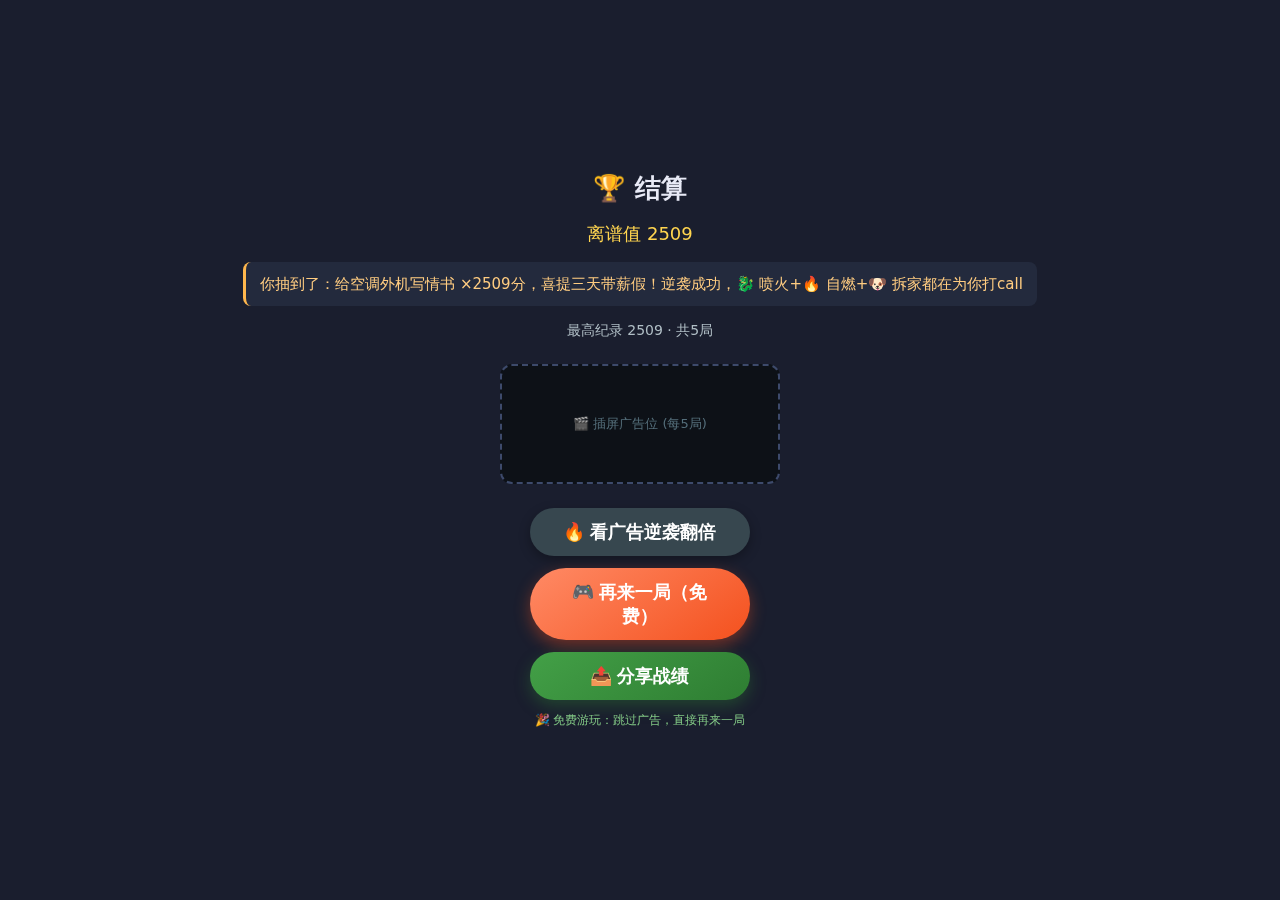
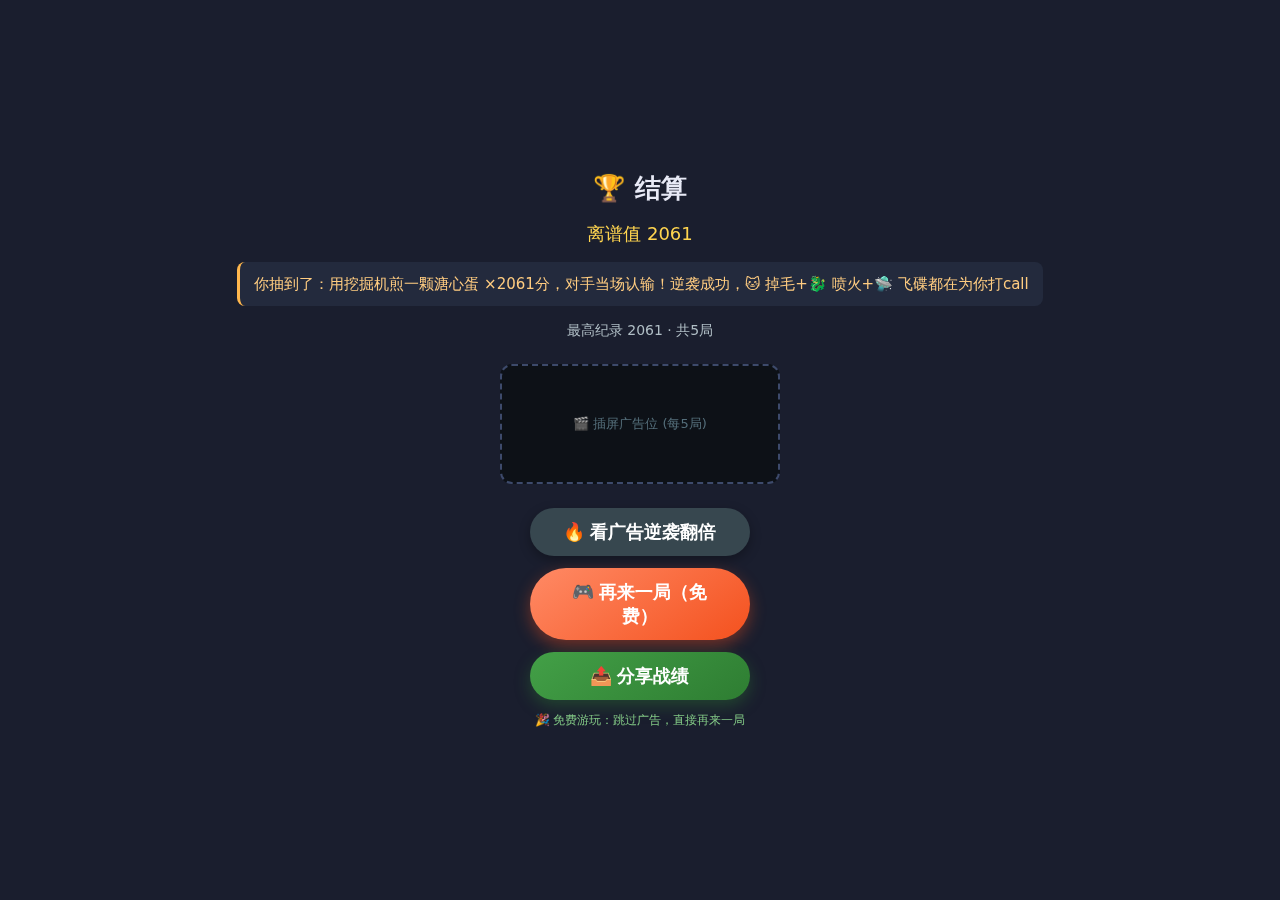
docs: v0.7a 复盘汇总 + v0.7c backlog

Changed region(s): [[0.1875, 0.3111, 0.8125, 0.3422], [0.5, 0.2489, 0.5312, 0.28]]

diff --git a/docs/evidence/v0.7a/report.md b/docs/evidence/v0.7a/report.md
@@ -1,0 +1,76 @@
+# v0.7a 汇总报告 — 真实 LLM 端到端验证（三阶段完成，收尾交付）
+
+| 项目 | 内容 |
+|---|---|
+| 版本 | AgentGraph v0.7a（v0.7.0-alpha） |
+| 日期 | 2026-08-02 |
+| 范围 | 阶段1 小任务（落地页）+ 阶段2 中任务（创意方案→游戏原型）+ 阶段3 复盘（本报告） |
+| LLM | DeepSeek `deepseek-chat`（真实 API，.env.local gitignored 经 lib.sh 自动加载） |
+| 状态 | **全部完成**：两阶段真实交付 + 修复闭环 + 盲审复验通过 + 最终回归 18/18 + backlog 落盘 + 已推送 GitHub |
+
+---
+
+## 一、两阶段执行统计
+
+| 指标 | 阶段1（小任务·落地页） | 阶段2（中任务·创意方案+游戏原型） | 合计 |
+|---|---|---|---|
+| LLM 调用次数 | 7（6 图节点 + 1 次修复轮调用） | 21（阶段① 9 + 阶段② 12） | **28** |
+| 图 | feature-dev（7 节点） | research-report（6 节点）+ game-mvp（8 节点）双图 | 3 图 |
+| 交付物 | 落地页 index.html（16.5KB） | 创意方案定稿+详细稿 + 游戏 index.html（约 14.9KB） | 3 件 |
+| Gate | 4/5（修复后；留存行为套件游戏向误报） | 阶段① 5/5；阶段② 4/5（留存误报/低优先项） | — |
+| 独立审查 | UX 盲审通过（8 条打磨建议） | 盲审有条件通过 → 修复轮 1 → 复验通过 | — |
+| 修复轮数 | 1 轮（按 brief 规则即止） | 系统修复 1 轮 + 修复轮 1 盲审修复 | ≤5 轮目标内 |
+| E2E 实跑 | Playwright 交互 4/4 | 18/18 → 修复轮重写后 34/34 | — |
+| 花费估算 | ≈ $0.031（约 ¥0.22） | ≈ $0.11（约 ¥0.81） | **≈ $0.14（约 ¥1.03）** |
+
+注：token 用量（阶段1 ≈43.7k 输入/17.4k 输出；阶段2 ≈129.9k 输入/70.0k 输出）按字节估算（agent-runner 不回显 usage，缺陷 D16），实际以 DeepSeek 控制台为准。
+
+## 二、成功标准逐条核对（spec §2 七条）
+
+| # | 标准 | 判定 | 结论 |
+|---|---|---|---|
+| 1 | 小任务（落地页）交付，无阻断性缺陷 | Gate 4/5 + UX 盲审通过 + 复评通过（0 阻断项，8 条打磨建议） | ✅ 达成 |
+| 2 | 中任务分类正确（置信度 ≥0.8）、计划被批准 | 分类器关键词全 0 分 → **分类失败**，走低置信度兜底：人工选向（创意方案→小游戏），计划经用户批准 | ⚠ 未达标（如实记录），但流程兜底有效，未阻塞 |
+| 3 | 中任务交付物过全部 Gate + 独立审查 | Gate 4/5 + 盲审「有条件通过」→ 修复轮 1（B-1/B-2/C-1 全修）→ 独立复验（review-blind-fix1.md 28/28 + E2E 34/34）通过 | ✅ 达成（有条件通过→修复后达标） |
+| 4 | 修复回路闭环（自动修自动验） | 阶段① 图内「修改后重审」边 2 轮闭环；阶段② 图内 fix 节点 3 轮 + `guild fix` 策略 1 轮 + 修复轮 1 盲审修复，全程验证齐全 | ✅ 达成（修复轮 1 完整闭环） |
+| 5 | 每步有证据报告（日志/Gate/审查） | `docs/evidence/v0.7a/stage1/`（run/gate×2/self-test/review-ux/report 共 8 文件）+ `stage2/`（run×2/gate×4/e2e 脚本+日志/review-blind×2/截图×2/report 共 13 文件）+ 本汇总 | ✅ 达成 |
+| 6 | 缺陷清单进 backlog | `docs/superpowers/specs/backlog-v0.7c.md`（本任务产出，22 项） | ✅ 达成 |
+| 7 | 成本可控（中任务修复循环最多 5 轮） | 合计 ≈ $0.14；系统修复轮 1 轮（+修复轮 1 盲审 1 轮），远低于 5 轮上限 | ✅ 达成 |
+
+## 三、缺陷总数与分布（→ v0.7c backlog）
+
+**总数 22 项**：D1-D17 编号缺陷 17 项（D5 并入 D14 不单列；D7 在阶段2 报告 §十 记录但未单列入 backlog；D8 并入「UX 审查 8 条」条目）+ 审查/教训发现 7 项（E2E 断言教训、分类器关键词、竞品对照未补、M9、表述过度、M2、报告遗留）。
+
+| 类别 | 项数 | 覆盖 |
+|---|---|---|
+| 运行时缺陷 | 12 | D1、D2、D3、D9、D10、D12、D13、D14（含 D5）、D16、D17、E2E 限频断言恒真教训（I-1）、分类器关键词覆盖弱 |
+| 模板缺口 | 4 | D4、D6（含 canvas 检查误报）、D11、D15 |
+| 质量差距 | 6 | UX 审查 8 条（含 D8）、品类竞品对照未补、M9 卡牌高亮、表述过度、M2 gameState 死变量、报告遗留 |
+| **合计** | **22** | 详见 `docs/superpowers/specs/backlog-v0.7c.md` |
+
+按级别：阻断/高优先级 1 项（D2 自动接力，头号候选）；中 8 项（D1/D3/D9/D10/D12/D13/D17/分类器）；低 13 项。已修复并在轮内验证的缺陷（B-1/B-2/C-1/I-1/M1/M3-M8）按约定在修复记录中闭环，不重复计入 backlog。
+
+## 四、结论
+
+**v0.7a 达成「真实 LLM 端到端可交付」验证**：28 次真实 DeepSeek 调用、3 张图、2 件完整交付物，全链路执行无一节点失败；交付质量达到「有条件通过 → 修复后达标」——小任务零阻断（UX 盲审通过），中任务经盲审发现 2 阻断（B-1 流程死路、B-2 概念核心未实现）后 1 轮修复闭环并独立复验通过，证明「自动产出 + 自动审查 + 修复回路」的真实链路成立。
+
+**最大系统缺口是 D2（自动接力）**：全自动多 Agent 流转未闭环，两阶段 23 次下游节点执行全部依赖编排者手工创建 handoff 并逐节点 `run-agent`，是 v0.7c 的头号修复候选；其次为 D1（4096 token 截断无系统兜底，两阶段共 5 次发生）与 D12/D13（fix 节点无文件访问与补丁应用管线）。分类器（成功标准 2）为唯一未达标项——如实记录为「未达标但流程兜底有效」。
+
+**花费 ≈ $0.14（约 ¥1.03）**，成本可控，远低于预算上限。
+
+## 五、交付物清单
+
+| 交付物 | 路径 |
+|---|---|
+| 落地页（阶段1） | `docs/evidence/v0.7a/stage1/deliverable/index.html` |
+| 创意方案定稿+详细稿（阶段2①） | `docs/evidence/v0.7a/stage2/deliverable/创意方案-定稿.md`、`创意方案-v0.3详细稿.md` |
+| 游戏原型（阶段2②） | `docs/evidence/v0.7a/stage2/deliverable/game/index.html` |
+| 阶段1 证据报告 | `docs/evidence/v0.7a/stage1/report.md`（含 run/gate/self-test 日志、review-ux.md、截图） |
+| 阶段2 证据报告 | `docs/evidence/v0.7a/stage2/report.md`（含双图日志、gate×4、e2e 脚本+日志、review-blind.md、review-blind-fix1.md、截图） |
+| 最终回归自检 | `docs/evidence/v0.7a/final-self-test.log`（**18/18 通过**） |
+| v0.7c 缺陷清单 | `docs/superpowers/specs/backlog-v0.7c.md`（22 项，三类） |
+| 本汇总报告 | `docs/evidence/v0.7a/report.md` |
+
+## 六、待用户验收事项
+
+两件交付物（落地页、游戏原型）请用户亲自验收「用户不用改」是否达成；验收意见与后续 v0.7c 优先级（建议按 D2 → D1 → D12/D13 顺序）将作为下一版本输入。

diff --git a/docs/superpowers/specs/backlog-v0.7c.md b/docs/superpowers/specs/backlog-v0.7c.md
@@ -1,0 +1,39 @@
+# v0.7c Backlog — v0.7a 真实 LLM 端到端验证复盘缺陷清单
+
+**日期**: 2026-08-02
+**来源**: v0.7a 阶段1（小任务·落地页）与阶段2（中任务·创意方案+游戏原型）真实执行暴露的全部缺陷/改进点
+**用途**: v0.7c（系统鲁棒性）输入
+**证据索引**: `docs/evidence/v0.7a/stage1/report.md`、`docs/evidence/v0.7a/stage2/report.md`、`docs/evidence/v0.7a/stage1/review-ux.md`、`docs/evidence/v0.7a/stage2/review-blind.md`
+
+---
+
+## 一、运行时缺陷（Runtime）— 链路断点与自动化缺口
+
+- [ ] D2: `guild run --graph` 只自动执行初始节点，下游节点需手动 `run-agent` + 手工创建 handoff 接力，全自动多 Agent 流转未闭环（阶段2，证据: stage2/report.md §五/§十）— **头号候选**
+- [ ] D1: LLM 输出在 4096 token 处被截断（无闭合标签/JS 断裂/文档腰斩），无系统级兜底（拆段生成/续写自动重试/输出长度监控），两阶段累计 5 次截断（阶段1+2，证据: stage1/report.md §六、stage2/report.md §十）
+- [ ] D3: QA 节点基于截断/注入的上游文本评审，无「读真实文件」能力，产生不实结论（阶段1：第4款隐藏/156字超限/#000000 标题 3 条均不实；阶段2：B-3 自我更正、N-1 与 E2E 不符、复测缺陷 ID 描述漂移）（阶段1+2，证据: stage1/report.md §四/§六、stage2/report.md §十）
+- [ ] D9: `guild run-agent --upstream <id>` 标志未被解析（`run_agent()` 只取位置参数 `$3`），`--upstream` 被当作 upstream 值，注入静默退化为 `(upstream content unavailable)`；仅按位置传参才能注入（阶段2，证据: stage2/report.md §十、scripts/runtime/agent-runner.sh）
+- [ ] D10: 链式 handoff 单输入缺陷：finalize 节点仅注入 review 结论、未注入 write 详细稿 → 定稿为浓缩重写版（6.6KB vs 10.7KB 细节丢失），仅靠编排者以 annex 补救（阶段2，证据: stage2/report.md §十）
+- [ ] D12: fix 节点无文件访问能力：补丁引用不存在的变量名（gameOver/currentAbsurd/renderResult/drawCards(3)），与实际代码 API 不匹配，无法直接应用（阶段2，证据: stage2/report.md §十、fix 输出 221940.md）
+- [ ] D13: 无补丁应用机制：fix 节点输出「修复方案文档」而非机器可应用变更，系统无 diff/apply/merge 管线，每轮修复依赖编排者手工落地组装（阶段2，证据: stage2/report.md §十）
+- [ ] D14: 编排者组装引入缺陷：①组装时未在 startRound 重新启用 drawBtn → 只能抽 1 次卡；②「逆袭翻倍」按钮条件与第 5 局保底必逆袭冲突 → 入口永不出现（阶段2，证据: stage2/report.md §十）
+- [ ] D16: agent-runner 丢弃 LLM usage 字段：llm-backend.js 返回 usage 但 runner 只取 text，token 用量无法自动统计，花费只能按字节估算（阶段2，证据: stage2/report.md §十、scripts/runtime/agent-runner.sh）
+- [ ] D17: e2e-script.py 限频断言恒真：限频检查行从未再次点击分享按钮，限频逻辑从未被真实测试，且恰好掩盖「确认分享后 resetGame 清零 lastShareTime 绕过限频」的产品缺陷（B-1）；修复轮 1 已重写断言并修复限频绕过（阶段2，证据: stage2/report.md §十、review-blind.md §二）
+- [ ] E2E 限频断言恒真教训（I-1）：测试断言必须验证真实行为，禁止「检查屏不可见」式空转通过；本轮修复轮 1 已按此重写并 34/34 重跑（阶段2，证据: stage2/report.md §七 I-1、review-blind-fix1.md）
+- [ ] 分类器关键词覆盖弱：游戏/广告变现/裂变/创意相关类型关键词缺失或过弱，需求被判为 miniapp 误判（阶段2，证据: stage2/report.md §二、classify-output.txt）
+
+## 二、模板缺口（Template）— 模板/门禁内容导致交付质量或误报
+
+- [ ] D11: 「免费游玩」需求点未显式覆盖：定稿/详细稿均无「免费」表述（仅隐含于纯广告收入模型），playability 文档模式关键词与实际语义不匹配产生 WARN（阶段2，证据: stage2/report.md §十、gate-stage1-run1.log）
+- [ ] D15: LLM 输出 emoji 编码丢失/乱码残留：按钮文案、QA 报告、详细稿「漏斗析/低频扰」等乱码（修复轮 1 已清理交付物与报告内残留；根因在 LLM 输出管线编码处理）（阶段2，证据: stage2/report.md §十）
+- [ ] D6: 行为门禁对非游戏交付物误报：behavior/playability Gate 为游戏向指标（开始交互/音频手势/复玩/Canvas），对落地页/文档类交付物误报；canvas 检查对无 canvas 的游戏也跑（阶段1+2，证据: stage1/report.md §三/§六、gate-stage2-run1.log；无按交付类型选择 gate 的机制）
+- [ ] D4: `scripts/test-runner.sh` bash 算术 bug：第 182/186/232 行算术比较产生语法错误（`[[: 0\n0: syntax error`），try-catch/localStorage 两项检查结果失真（阶段1，证据: stage1/report.md §六、gate-run1/2.log；阶段2 未复现，留存观察）
+
+## 三、质量差距（Quality）— 交付物与「用户不用改」标准的差距
+
+- [ ] 阶段1 UX 盲审 8 条建议（review-ux.md）：输入框高仅 19px（<44px 触控推荐，按钮 40px）、白字按钮对比度 3.27:1 未达 WCAG AA、菜单描述 15.2px 偏小、alert() 原生反馈+无真实后端、`.story-section` padding 覆盖容器、弹窗未用 `<form>`、emoji 装饰跨端观感、320px 品牌字偏满/safe-area 未用（阶段1，证据: stage1/review-ux.md §四）
+- [ ] 阶段2 盲审建议：最近品类竞品对照（人生重开模拟器/运势测试 H5）未补，定稿仍自称「市场上没有的创意」；收入模型口径与分享频率限制口径已由修复轮 1 C-1 统一，竞品对照本轮未补（阶段2，证据: review-blind.md §一、review-blind-fix1.md；定稿 grep「人生重开」=0）
+- [ ] M9: 卡牌「选中」高亮纯装饰无玩法语义，易造成玩家预期落空（阶段2，证据: review-blind.md §2.3、stage2/report.md §七）
+- [ ] 创意方案「市场上没有」表述过度：实为已验证品类（文案生成+结果分享）的差异化成衣，需收敛表述（阶段2，证据: review-blind.md §一）
+- [ ] M2: gameState 死变量：仅因行为门禁关键词检查而插入，从未被读取；需给 gate 换依赖（真实状态守卫检测）或移除变量（阶段2，证据: review-blind.md §2.2、stage2/report.md §七）
+- [ ] 阶段1 报告遗留：review-ux.md 行数口径（91 行 vs 实际）、stage1/report.md §四 判定措辞（「有条件通过」vs review-ux.md「✅通过」）不一致，需统一（阶段1，协调者注记，证据: stage1/review-ux.md、stage1/report.md）

diff --git a/docs/evidence/v0.7a/stage2/review-blind-fix1.md b/docs/evidence/v0.7a/stage2/review-blind-fix1.md
@@ -1,0 +1,63 @@
+# Blind Review — Fix Round 1 Re-Verification（v0.7a Stage 2 游戏交付物）
+
+> 审查人：独立盲审（未参与修复，未信任修复报告，全部结论来自独立实测 + 源码取证）
+> 审查时间：2026-08-02
+> 审查对象：`deliverable/game/index.html`（20.9KB，修复后）与 `deliverable/创意方案-定稿.md`（修复后）
+> 复审范围：上一轮 2 个阻断项 B-1 / B-2 + 非阻断快速核验（免费入口、定稿收入口径）
+
+---
+
+## 一、实际执行的核验动作（全部独立执行）
+
+1. **源码取证**（逐行阅读修复后的 index.html 全 520 行）：
+   - 结算屏 `#result-restart-btn`（"🎮 再来一局（免费）"）存在且始终可见（无 display:none 条件），事件绑定 → `resetGame()`。
+   - `lastShareTime` 全文件仅 3 处引用：声明(184)、限频判断(372)、进分享路径时置当前时间(377)。`resetGame()`(441-458) 与 `confirmShare()`(383-390) **均不再触碰 lastShareTime**；声明注释明示"跨对局保留, 不随再来一局/分享重置"。
+   - 文案生成器 `generateAbsurdCopy()`(166-174)：SCENE_POOL 12 条 + EFFECT_POOL 10 条 + CRASH_POOL 6 条，按"场景 ×分数分 + 效果 + 代价(翻车) + 卡牌组合不背锅"规则拼接；抽卡(308)、结算(349)、广告逆袭后(425) 三处实时调用。
+2. **独立 Playwright 实测**（自写 /tmp/rev-fix1-check.py，375×812 Chromium headless，不沿用修复方脚本）：
+   全链路 28/28 功能断言通过，截图 /tmp/rev-result.png、/tmp/rev-share.png。
+3. **交叉复跑修复方脚本**：`e2e-script.py` 在真实游戏中 34/34 通过（其中限频拦截 3 项真实点击验证，非空转）。
+4. **控制台核验**：完整流程 0 console error / 0 pageerror。
+
+---
+
+## 二、B-1 判定：已修复 ✅
+
+| 检查点 | 实测证据 |
+|---|---|
+| 结算屏独立「再来一局」按钮存在、可见 | 结算屏可见按钮枚举含 `#result-restart-btn`（🎮 再来一局（免费））；点击后回主屏、轮次重置为第 1 局、离谱值归 0 |
+| 不分享/不看广告可直接重玩 | 首次到结算后**未做任何分享/广告操作**直接点「再来一局」→ 成功重开（B-1d/e/f） |
+| 完成分享后立即再进分享路径被拦截 | 确认分享 → 再打完一局到结算 → 点分享 → **弹 alert「⏳ 分享太频繁，请30秒后再试」，分享屏未打开**，仍在结算屏；连续第 3 次尝试同样被拦截 |
+| 取消路径同样拦截 | 新会话 分享→取消→立即再点分享 → 被 alert 拦截（分享屏不打开） |
+| 修复前的绕过点已消除 | 源码确认 `resetGame()` 不再清零 `lastShareTime`（上一轮缺陷"确认分享后 lastShareTime 清零→限频失效"已修复）；修复方原 E2E 中"限频为空转断言"的空洞也已补成真实再点击验证 |
+
+> 注：拦截提示为 alert 对话框（模拟环境可行）；真机微信/抖音环境建议换成 toast/原生 API，属移植备注，不阻断。
+
+## 三、B-2 判定：已修复 ✅
+
+| 检查点 | 实测证据 |
+|---|---|
+| 抽卡实时生成离谱文案 | 抽 1 张后游戏消息区出现"离谱文案：你抽到了：给空调外机写情书 ×1519分，老板含泪给你涨薪。代价是连楼下保安都记住了你——🧨 哑炮+🐊 鳄鱼+🔥 自燃表示不背锅"（场景池+效果池+翻车池+卡牌组合规则拼接，非纯数字） |
+| 结算屏显示文案 | `#result-copy` 实测含完整离谱文案（"你抽到了：…逆袭成功，…都在为你打call"），且随广告翻倍同步再生成 |
+| 分享卡显示文案+分数+昵称 | `#share-copy` 含完整文案；`#share-score` 为数字（实测 2133）；`#share-nick` 显示"离谱小能手"；另有历史最高 |
+| 三分类文案变体 | generateAbsurdCopy 按 isCounter 分支输出"逆袭成功…为你打call" / "代价是…不背锅" 两种模板，实测两种均出现 |
+
+## 四、非阻断快速核验
+
+- **免费游玩入口** ✅：结算屏 `#free-note`（"🎉 免费游玩：跳过广告，直接再来一局"）+ 按钮文案"再来一局（免费）"；跳过广告直接重玩实测成立。
+- **定稿收入模型口径** ✅：`创意方案-定稿.md` §4.2 已按 50% 平台分成修正（表格含 ×50% 项，保守/中性/乐观 = ¥2.2万/¥7.0万/¥18.6万 日净收入），与 `创意方案-v0.3详细稿.md` §4.2 三档数字**逐行一致**；§4.1/§4.4 eCPM 区间已对齐（插屏微信 ¥20-30/抖音 ¥25-35）；§3.3 分享频率已统一为"24 小时内最多 10 次"，并注明与详细稿一致；定稿时间戳已修正为 2026-08-02。
+
+## 五、新发现问题
+
+- **无新阻断项**。
+- 观察（非阻断，均系上一轮遗留的文档级小瑕疵，未在本轮任务范围）：① 定稿正文末仍保留"本方案经复审 PASSED，可作为开发阶段总方案交付"及"handoff #32"字样——审批痕迹未从正文剥离；② `gameState="playing"` 死变量仍在（门禁博弈痕迹，语义无害）；③ 3 个空 catch 块仍在（静默吞错，建议 console.warn）。均不影响本轮 B-1/B-2 判定。
+
+## 六、总结论
+
+| 项 | 判定 |
+|---|---|
+| B-1 结算屏再来一局 + 30秒限频真实拦截 | **已修复**（独立实测 + 源码双证） |
+| B-2 离谱文案内容层 | **已修复**（独立实测 + 源码双证） |
+| 新阻断项 | 无 |
+| 免费入口 / 定稿收入口径（50% 分成） | ✅ 通过 |
+
+修复轮 1 真实有效，未发现修复报告与实机行为的偏差；上一轮"限频空转断言"已补为真实点击验证，本轮独立复测确认其 34/34 属实。
